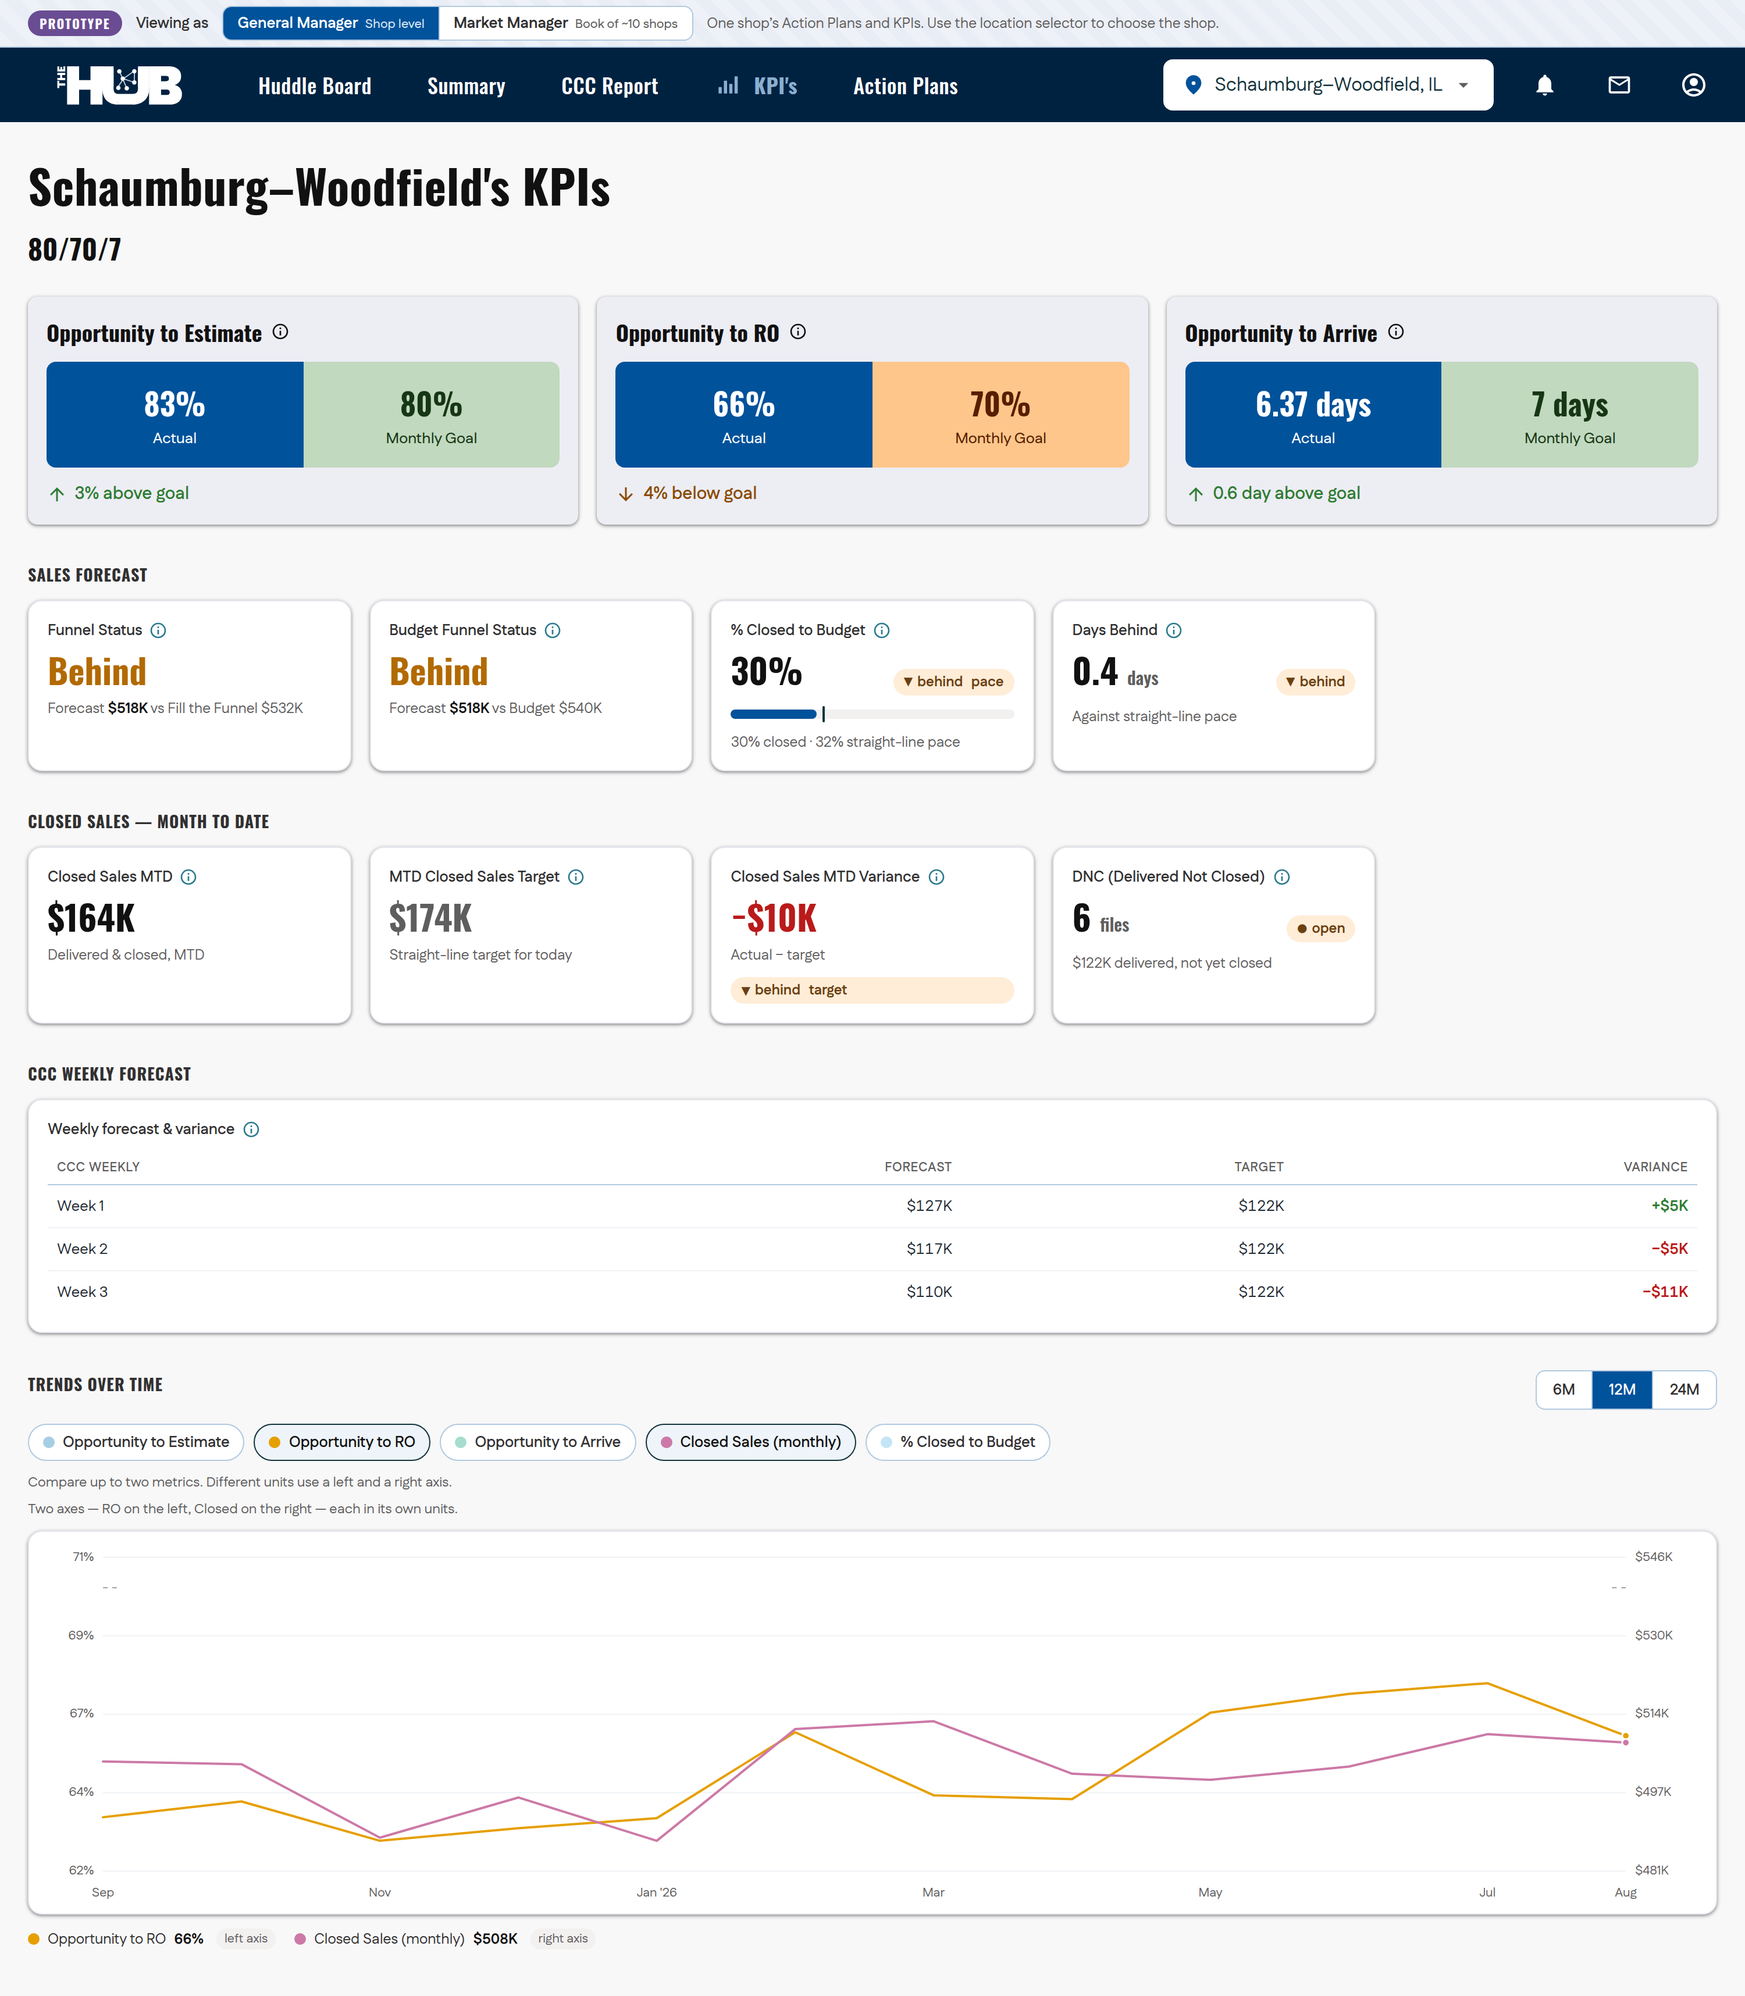
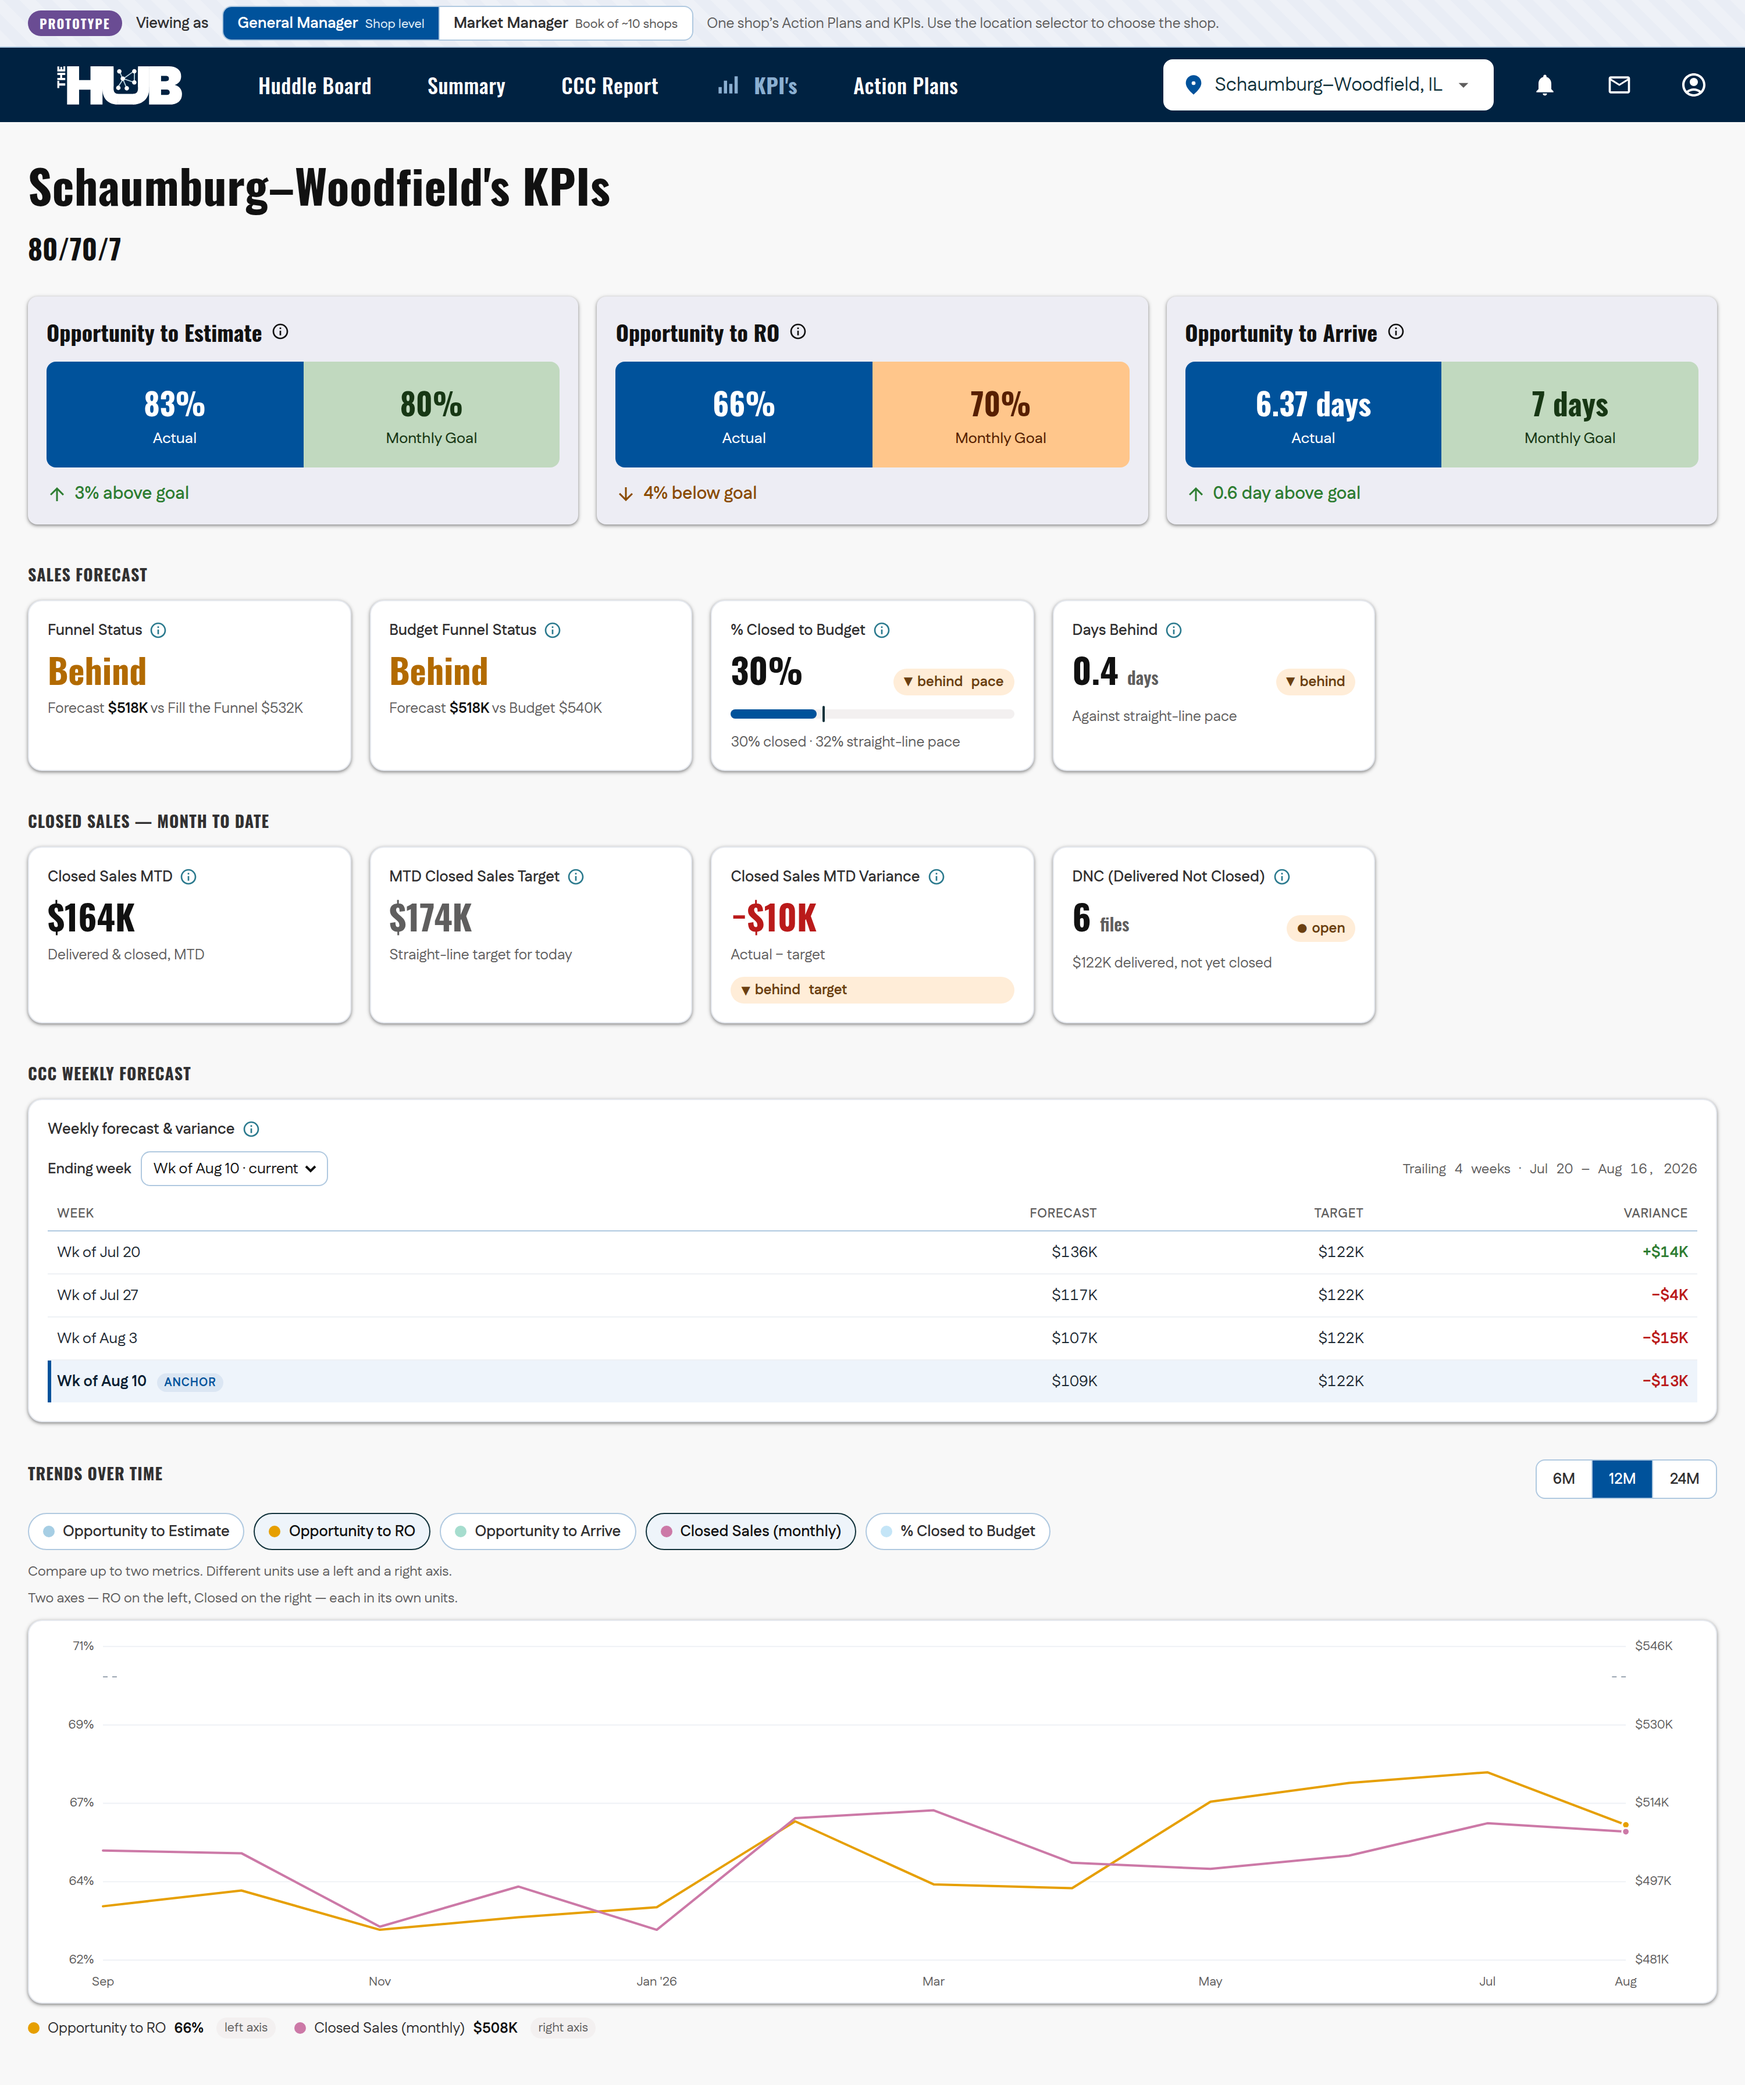
CCC weekly forecast: trailing four weeks with a selectable anchor week
Replace the fixed Week 1/2/3 weekly table with a rolling four-week window.
It defaults to the previous four weeks (ending the current week) and adds an
"Ending week" selector — pick any week and the table shows the four weeks
ending at it. The anchor (selected) week is highlighted, and a caption shows
the exact date span.

- app.js: generate a deterministic per-store week series anchored to the
  reference date (weekSeries); weeklyWindow/weeklyInnerHTML render the
  trailing four weeks for the selected anchor; wireWeekly re-renders just the
  weekly tile via event delegation, preserving trends-chart state. The anchor
  selection persists across store switches (shared calendar weeks).
- styles.css: week picker + anchor-row highlight styles.
- README: document the anchor-week selector and trailing window.
- Regenerate the KPIs preview screenshot.

Claude-Session: https://claude.ai/code/session_013BSpAv4JN11AdbKWqu4hxe

diff --git a/assets/app.js b/assets/app.js
@@ -531,6 +531,23 @@
   function money(v) { var a = Math.abs(v); var s = a >= 1000000 ? '$' + (a / 1000000).toFixed(a >= 10000000 ? 0 : 1) + 'M' : '$' + Math.round(a / 1000) + 'K'; return (v < 0 ? '−' : '') + s; }
   function moneySigned(v) { return (v > 0 ? '+' : v < 0 ? '−' : '') + money(Math.abs(v)); }
 
+  /* ---- CCC weekly forecast: a trailing 4-week window with a selectable anchor week ---- */
+  function addDaysD(d, n) { var x = new Date(d.getFullYear(), d.getMonth(), d.getDate()); x.setDate(x.getDate() + n); return x; }
+  function weekStartMonday(d) { var x = new Date(d.getFullYear(), d.getMonth(), d.getDate()); return addDaysD(x, -((x.getDay() + 6) % 7)); }
+  function mdShort(d) { return d.toLocaleDateString('en-US', { month: 'short', day: 'numeric' }); }
+  var WEEK_HISTORY = 16;               // weeks generated back from the current week (selector history)
+  var weeklyState = { asOfKey: null }; // anchor week (ISO Monday); null → current week
+  function weekSeries(storeId, weeklyTarget) {
+    var cur = weekStartMonday(TODAY), out = [];
+    for (var i = WEEK_HISTORY - 1; i >= 0; i--) {
+      var start = addDaysD(cur, -7 * i), key = iso(start);
+      var wr = mulberry(hashStr(storeId + ':wk:' + key));
+      var f = weeklyTarget * (0.86 + wr() * 0.26);
+      out.push({ start: start, key: key, label: 'Wk of ' + mdShort(start), forecast: f, target: weeklyTarget, variance: f - weeklyTarget });
+    }
+    return out; // chronological ascending; last entry = current week
+  }
+
   function avgPacingOver(ids) {
     ids = ids.filter(function (id) { return PACING_BY_STORE[id]; });
     var n = ids.length || 1, b = 0, cp = 0, ff = 0;
@@ -554,8 +571,7 @@
     var dncCount = 3 + Math.floor(dr() * 6);
     var dncValue = dncCount * (12000 + dr() * 9000);
     var weeklyTarget = budget / (MTD.daysInMonth / 7);
-    var wr = mulberry(hashStr(storeId + ':wk')), weeks = [];
-    for (var i = 1; i <= 3; i++) { var f = weeklyTarget * (0.9 + wr() * 0.18); weeks.push({ week: i, forecast: f, target: weeklyTarget, variance: f - weeklyTarget }); }
+    var weeks = weekSeries(storeId, weeklyTarget);
     return { budget: budget, mtdTarget: mtdTarget, closedMTD: closedMTD, forecast: forecast, fillTarget: fillTarget,
       closedVariance: closedVariance, pctClosedToBudget: pctClosedToBudget, pacePct: pacePct, daysBehind: daysBehind,
       monthlyClosed: budget * base.closedPace, dncCount: dncCount, dncValue: dncValue, weeks: weeks };
@@ -610,14 +626,47 @@
       '<span class="delta-chip warn"><span class="arw" aria-hidden="true">●</span>open</span></div>' +
       '<div class="kpi-subline">' + esc(money(value)) + ' delivered, not yet closed</div></div>';
   }
-  function tileWeekly(label, info, weeks) {
-    var rows = weeks.map(function (w) {
-      var pos = w.variance >= 0;
-      return '<tr><td>Week ' + w.week + '</td><td class="num">' + esc(money(w.forecast)) + '</td><td class="num">' + esc(money(w.target)) + '</td>' +
-        '<td class="num var ' + (pos ? 'pos' : 'neg') + '">' + esc(moneySigned(w.variance)) + '</td></tr>';
+  function weeklyWindow(series) {
+    var sel = series.length - 1;
+    if (weeklyState.asOfKey) {
+      for (var i = 0; i < series.length; i++) { if (series[i].key === weeklyState.asOfKey) { sel = i; break; } }
+    }
+    if (sel < 3) sel = 3;                       // always keep four weeks available
+    return { sel: sel, win: series.slice(sel - 3, sel + 1) };
+  }
+  function weeklyInnerHTML(series) {
+    var w = weeklyWindow(series), win = w.win;
+    var opts = '';
+    for (var i = series.length - 1; i >= 3; i--) {
+      opts += '<option value="' + esc(series[i].key) + '"' + (i === w.sel ? ' selected' : '') + '>' +
+        esc(series[i].label) + (i === series.length - 1 ? ' · current' : '') + '</option>';
+    }
+    var rows = win.map(function (wk, idx) {
+      var pos = wk.variance >= 0, isSel = idx === win.length - 1;
+      return '<tr' + (isSel ? ' class="wk-sel"' : '') + '><td>' + esc(wk.label) +
+        (isSel ? ' <span class="wk-badge">anchor</span>' : '') + '</td>' +
+        '<td class="num">' + esc(money(wk.forecast)) + '</td><td class="num">' + esc(money(wk.target)) + '</td>' +
+        '<td class="num var ' + (pos ? 'pos' : 'neg') + '">' + esc(moneySigned(wk.variance)) + '</td></tr>';
     }).join('');
+    var spanEnd = addDaysD(win[win.length - 1].start, 6);
+    var span = mdShort(win[0].start) + ' – ' + spanEnd.toLocaleDateString('en-US', { month: 'short', day: 'numeric', year: 'numeric' });
+    return '<div class="wk-head"><label class="wk-pick">Ending week ' +
+      '<span class="wk-select"><select id="wkSelect" aria-label="Anchor week for the trailing four-week view">' + opts + '</select></span></label>' +
+      '<span class="wk-caption">Trailing 4 weeks · ' + esc(span) + '</span></div>' +
+      '<table class="wk-table"><thead><tr><th>Week</th><th class="num">Forecast</th><th class="num">Target</th><th class="num">Variance</th></tr></thead><tbody>' + rows + '</tbody></table>';
+  }
+  function tileWeekly(label, info, series) {
     return '<div class="kpi-tile kpi-tile-wide"><div class="kpi-name">' + esc(label) + infoIcon(info) + '</div>' +
-      '<table class="wk-table"><thead><tr><th>CCC weekly</th><th class="num">Forecast</th><th class="num">Target</th><th class="num">Variance</th></tr></thead><tbody>' + rows + '</tbody></table></div>';
+      '<div id="wkInner">' + weeklyInnerHTML(series) + '</div></div>';
+  }
+  function wireWeekly(storeId) {
+    var inner = document.getElementById('wkInner');
+    if (!inner) return;
+    inner.addEventListener('change', function (e) {
+      if (!e.target || e.target.id !== 'wkSelect') return;
+      weeklyState.asOfKey = e.target.value;
+      inner.innerHTML = weeklyInnerHTML(computePacing(storeId).weeks);
+    });
   }
 
   function possessive(name) { return name.charAt(name.length - 1).toLowerCase() === 's' ? name + "'" : name + "'s"; }
@@ -650,13 +699,14 @@
       '</div></div>';
 
     html += '<div class="kpi-section"><div class="kpi-section-title">CCC weekly forecast</div><div class="kpi-tiles">' +
-      tileWeekly('Weekly forecast & variance', 'Weekly forecasts from CCC and variance from target', p.weeks) +
+      tileWeekly('Weekly forecast & variance', 'CCC weekly forecast vs target for the four weeks ending the selected week — pick any week to shift the window', p.weeks) +
       '</div></div>';
 
     html += trendsSectionHTML();
     root.innerHTML = html;
     drawTrends(storeId);
     wireTrends(storeId);
+    wireWeekly(storeId);
   }
 
   /* ---- KPI trends chart: focus up to two metrics over a period ---- */

diff --git a/assets/styles.css b/assets/styles.css
@@ -700,6 +700,19 @@ button { font-family: inherit; }
 .wk-table .num { text-align: right; font-variant-numeric: tabular-nums; }
 .wk-table td.var.pos { color: #2e7d32; font-weight: 700; }
 .wk-table td.var.neg { color: var(--error-strong); font-weight: 700; }
+/* weekly forecast — anchor-week picker + trailing window */
+.wk-head { display: flex; align-items: center; justify-content: space-between; gap: 12px; flex-wrap: wrap; margin-bottom: 10px; }
+.wk-pick { display: inline-flex; align-items: center; gap: 8px; font-size: 12.5px; font-weight: 600; color: var(--on-surface-variant); }
+.wk-select { display: inline-flex; align-items: center; height: 30px; padding: 0 6px; background: #fff;
+  border: 1px solid var(--outline-variant); border-radius: var(--corner-sm); }
+.wk-select:focus-within { border-color: var(--primary); box-shadow: 0 0 0 2px #00529b22; }
+.wk-select select { border: none; outline: none; background: transparent; cursor: pointer; height: 100%;
+  font-family: var(--font-plain); font-size: 13px; color: #111; padding-right: 2px; }
+.wk-caption { font-size: 12px; color: var(--muted); font-variant-numeric: tabular-nums; }
+.wk-table tr.wk-sel td { background: #eef4fb; }
+.wk-table tr.wk-sel td:first-child { font-weight: 700; color: #0b1f33; box-shadow: inset 3px 0 0 var(--primary); }
+.wk-badge { display: inline-block; margin-left: 6px; font-size: 10px; font-weight: 700; text-transform: uppercase; letter-spacing: .5px;
+  color: var(--primary); background: #00529b14; border-radius: var(--corner-full); padding: 1px 6px; vertical-align: middle; }
 
 /* KPI trends chart */
 .trends .trend-head { display: flex; align-items: center; justify-content: space-between; gap: 12px; flex-wrap: wrap; margin-bottom: var(--sp4); }

diff --git a/README.md b/README.md
@@ -101,7 +101,10 @@ above-/below-goal message — then adds sales-forecast pacing:
 - **Closed sales — month to date** — Closed Sales MTD (actual), MTD Closed Sales Target
   (straight-line for today), Closed Sales MTD Variance (actual − target), and
   **DNC (Delivered Not Closed)**.
-- **CCC weekly forecast** — Week 1 / 2 / 3 forecast, target, and variance.
+- **CCC weekly forecast** — a selectable **anchor week** (defaults to the current
+  week) showing the **trailing four weeks** ending at it — each week's forecast,
+  target, and variance, with the anchor week highlighted. Pick any week from the
+  **Ending week** selector to shift the four-week window.
 
 Status and delta chips use semantic color (green / amber / red) always paired with an
 arrow + label — never color alone. Targets, variance, %, days-behind, DNC, and the
